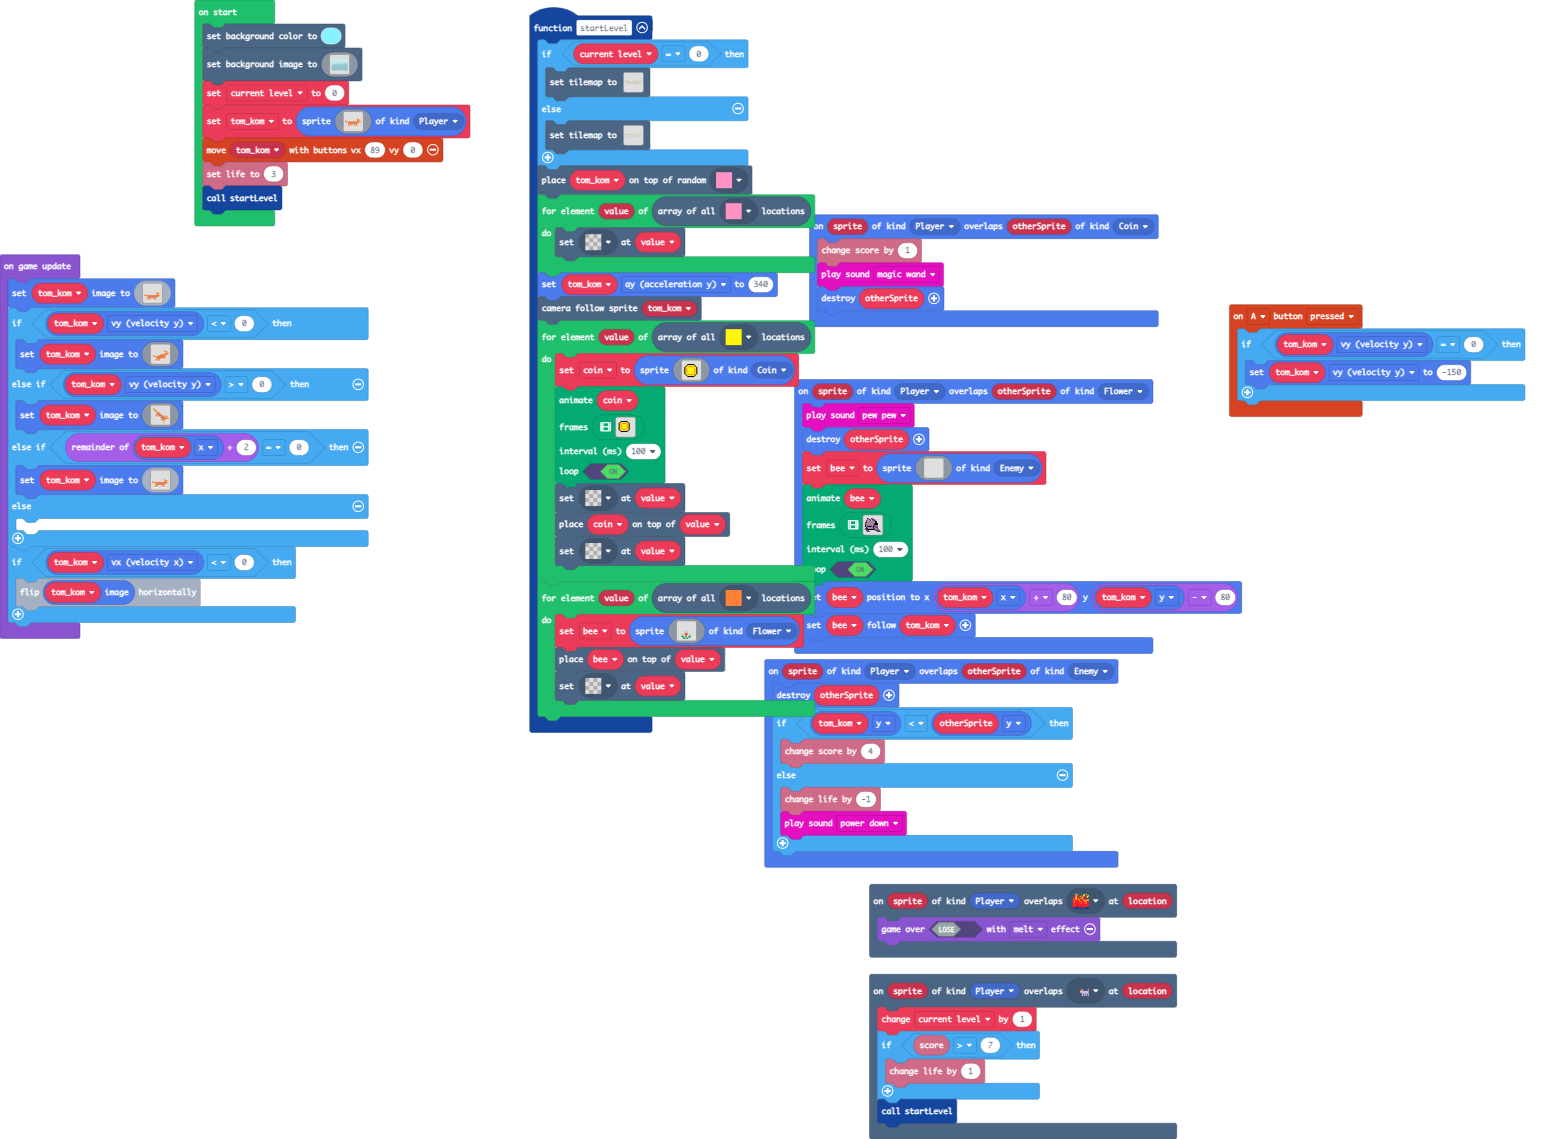
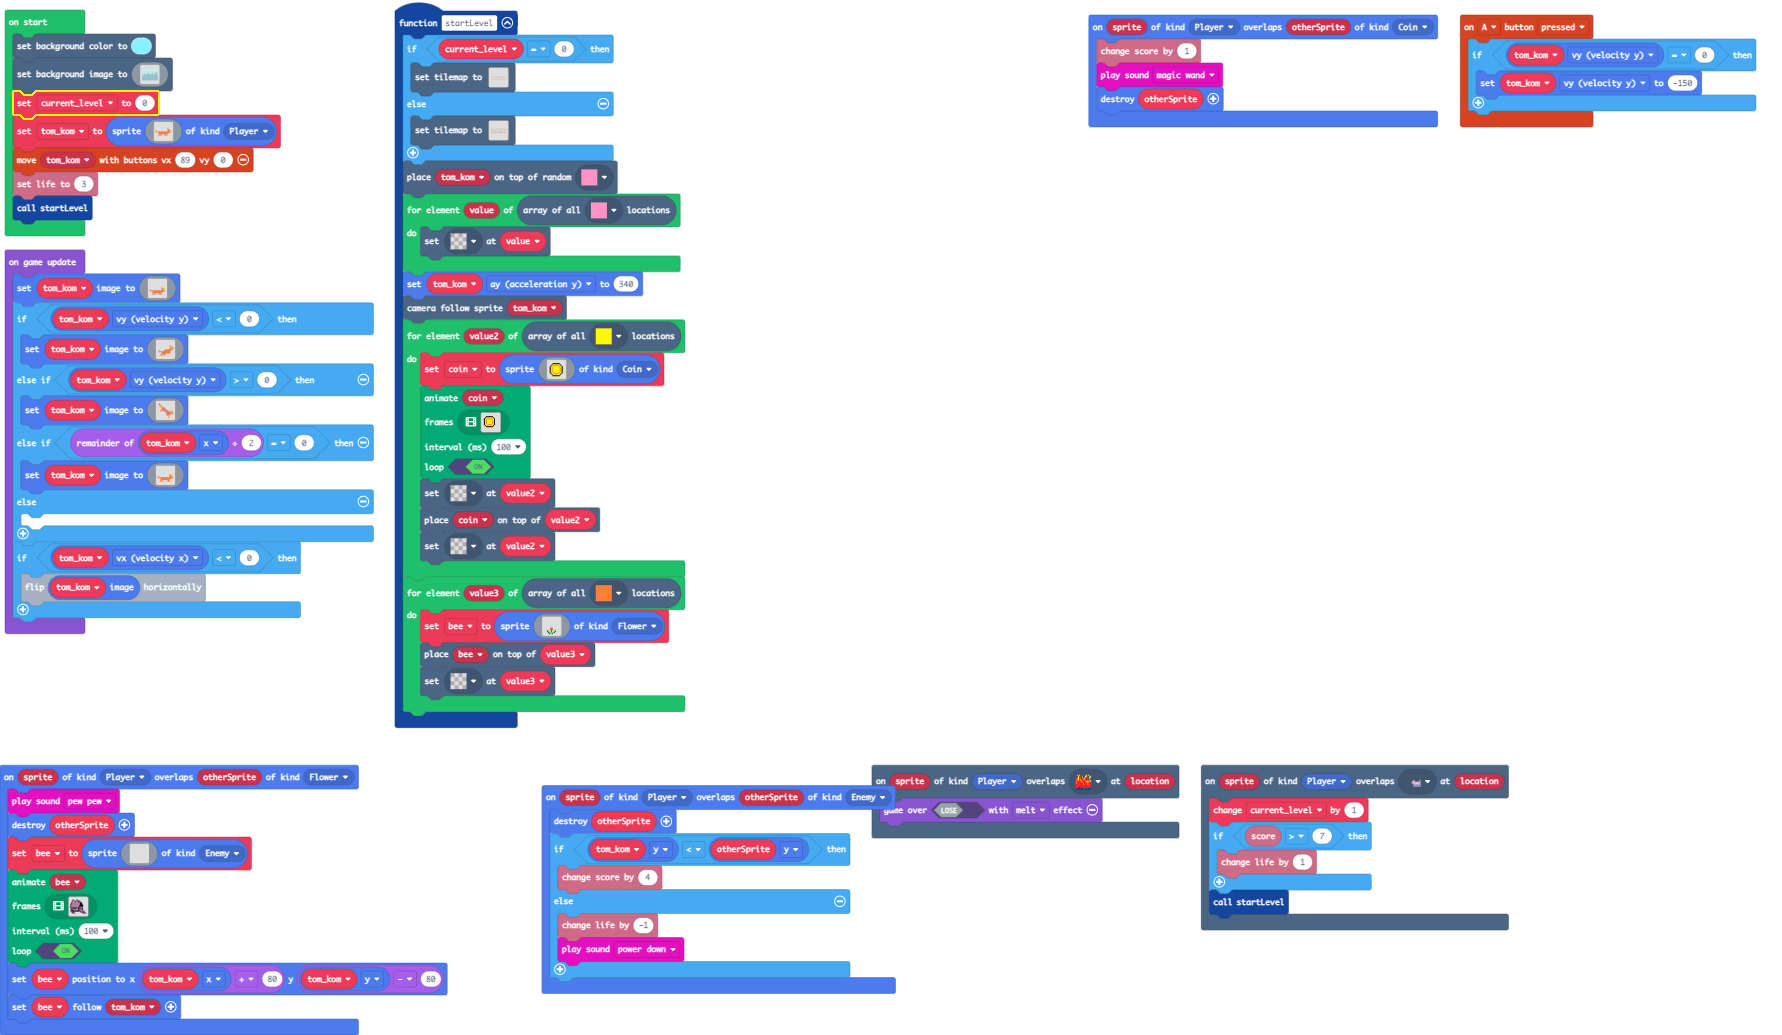
Level 1

diff --git a/main.ts b/main.ts
@@ -124,7 +124,24 @@ function startLevel () {
     if (current_level == 0) {
         tiles.setTilemap(tilemap`level_0`)
     } else {
-        tiles.setTilemap(tilemap`level_0`)
+        tiles.setTilemap(tiles.createTilemap(hex`320010000000000000000000000000000000000000000000000000000000000000000000000000000000000000000000000000000000000000000000000000000000000000000000000000000000000000000000000000000000000000000000000000000000000000000000000000000000000000000000000000000000000000000000000000000000000000000000000000000000000000000000000000000000000000000000000000000000000000000000000000000000000000000000000100000000000000050000000000000000050000000000000000000000010100000000000101000000000001010000010100000000000004000001000000000000000101010000000004000000010000000000010100000000000000000000000000000000000000000101000000000000000100000000000001000101000000000000000000000000000000000001000000000000000000000500000000000003000100000000000000000000000000010000000400010000000000010100000001000000000000000001010100000000010100000100000000000000000000000000000100010000000000000000000000000000010000000000000000000000040000000000000100040000010000000000000006000000000000000400000000010000000000000100000000000000000101000000000000000001010000000100000000000000000000000000010100000000000000000000000000000000000000000000000000000000000000000000000001010005000000000000000000000004000000010000000100000000000000000000000000000000000000000000000000000000000101010000000000000000000101000100000100000000000000000000000000000000000000000000000000000000000000000000000000000000000000000000000000000000000000000000000000000000000000000000000000000000000000000000000000000000000000000000000000000000000000000000000000000000000000000202020202020202020202020202020202020202020202020202020202020202020202020202020202020202020202020202`, img`
+            ..................................................
+            ..................................................
+            ..................................................
+            .......................................2..........
+            ..................22.....22.....22..22.........2..
+            .....222........2.....22....................22....
+            ...2......2.22.................2..................
+            .2.............2.....2.....22...2........222....22
+            ..2..............2.2..............2...............
+            ...2....2....................2......2........22...
+            .....22...2.............22........................
+            ............22.................2...2..............
+            ...............222.........22.2..2................
+            ..................................................
+            ..................................................
+            ..................................................
+            `, [myTiles.transparency16,myTiles.tile1,myTiles.tile3,myTiles.tile5,myTiles.tile2,myTiles.tile4,myTiles.tile6], TileScale.Sixteen))
     }
     tiles.placeOnRandomTile(tom_kom, myTiles.tile6)
     for (let value of tiles.getTilesByType(myTiles.tile6)) {
@@ -132,7 +149,7 @@ function startLevel () {
     }
     tom_kom.ay = 340
     scene.cameraFollowSprite(tom_kom)
-    for (let value of tiles.getTilesByType(myTiles.tile2)) {
+    for (let value2 of tiles.getTilesByType(myTiles.tile2)) {
         coin = sprites.create(img`
             . . . . . . . . . . . . . . . . 
             . . . . . . . . . . . . . . . . 
@@ -293,11 +310,11 @@ function startLevel () {
         100,
         true
         )
-        tiles.setTileAt(value, myTiles.transparency16)
-        tiles.placeOnTile(coin, value)
-        tiles.setTileAt(value, myTiles.transparency16)
+        tiles.setTileAt(value2, myTiles.transparency16)
+        tiles.placeOnTile(coin, value2)
+        tiles.setTileAt(value2, myTiles.transparency16)
     }
-    for (let value of tiles.getTilesByType(myTiles.tile4)) {
+    for (let value3 of tiles.getTilesByType(myTiles.tile4)) {
         bee = sprites.create(img`
             . . . . . . . . . . . . . . . . 
             . . . . . . . . . . . . . . . . 
@@ -316,8 +333,8 @@ function startLevel () {
             . . . . 8 7 7 7 7 7 8 . . . . . 
             . . . . . 8 7 7 8 . . . . . . . 
             `, SpriteKind.Flower)
-        tiles.placeOnTile(bee, value)
-        tiles.setTileAt(value, myTiles.transparency16)
+        tiles.placeOnTile(bee, value3)
+        tiles.setTileAt(value3, myTiles.transparency16)
     }
 }
 sprites.onOverlap(SpriteKind.Player, SpriteKind.Enemy, function (sprite, otherSprite) {
